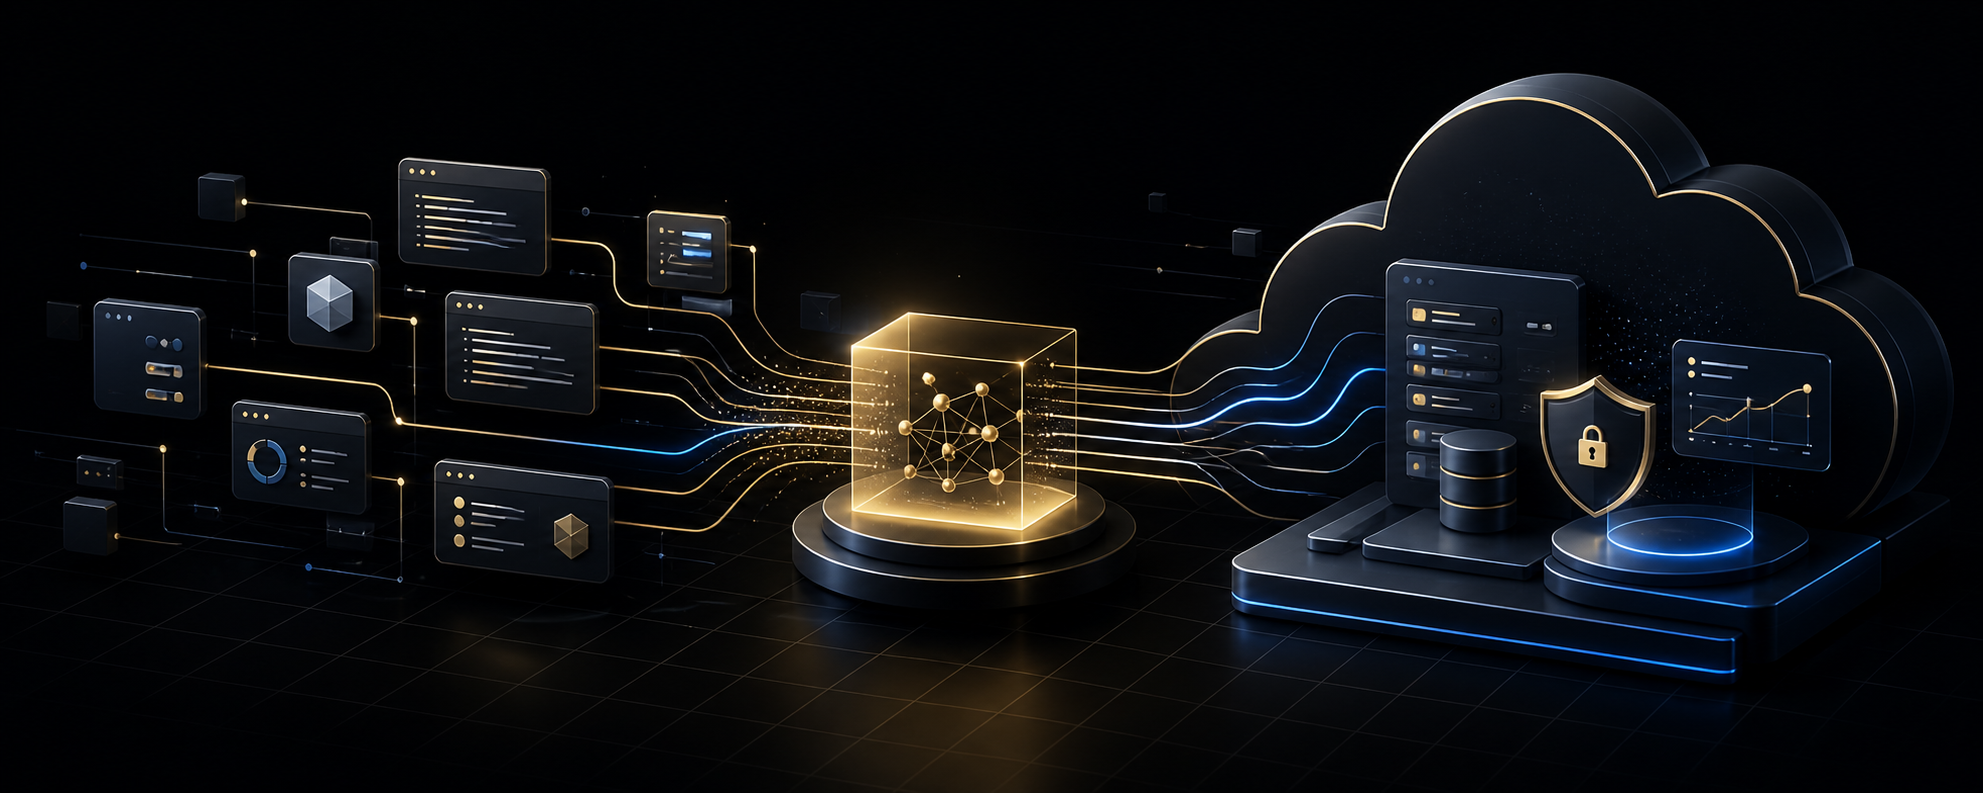
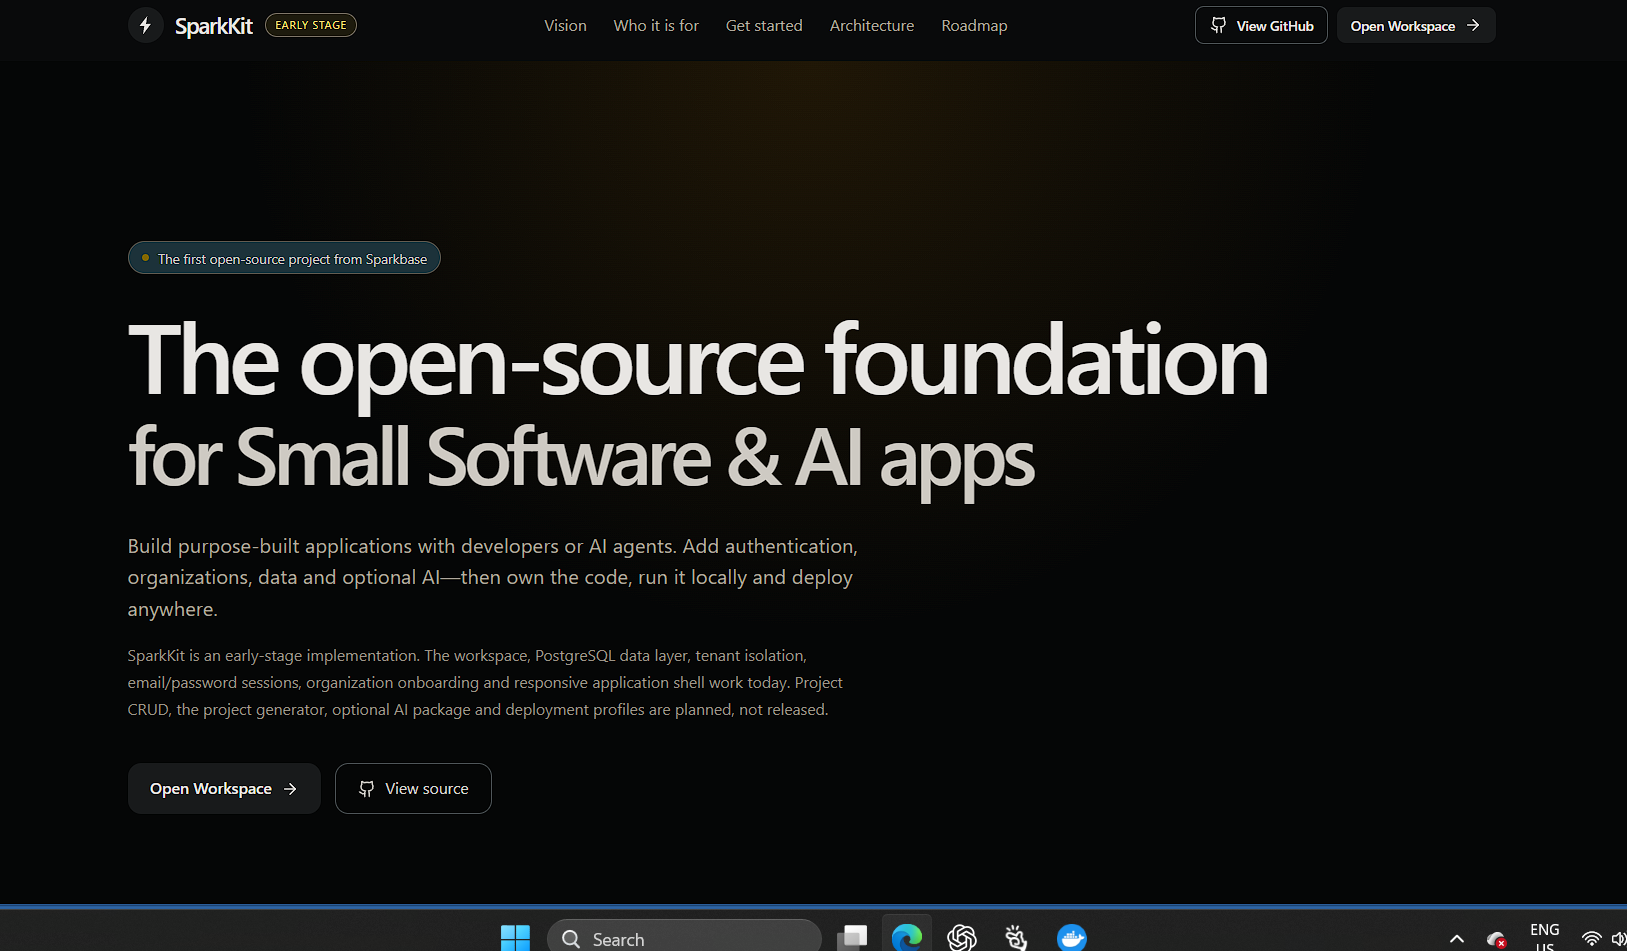
docs: use SparkKit site as repository hero

diff --git a/README.md b/README.md
@@ -18,7 +18,7 @@
 ---
 
 <picture>
-  <img src="./assets/github/sparkkit-repository-hero.png" alt="SparkKit applications flowing from an open foundation into secure managed infrastructure" width="100%" />
+  <img src="./assets/github/sparkkit-repository-hero.png" alt="SparkKit project website presenting the open-source foundation for Small Software and AI applications" width="100%" />
 </picture>
 
 > [!IMPORTANT]
